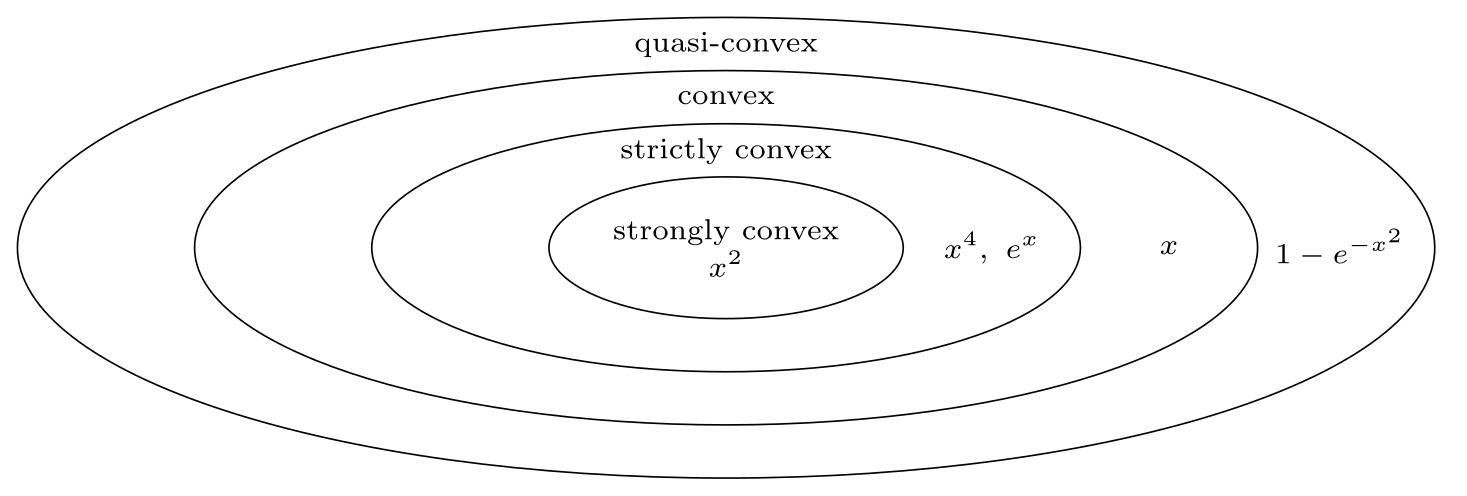
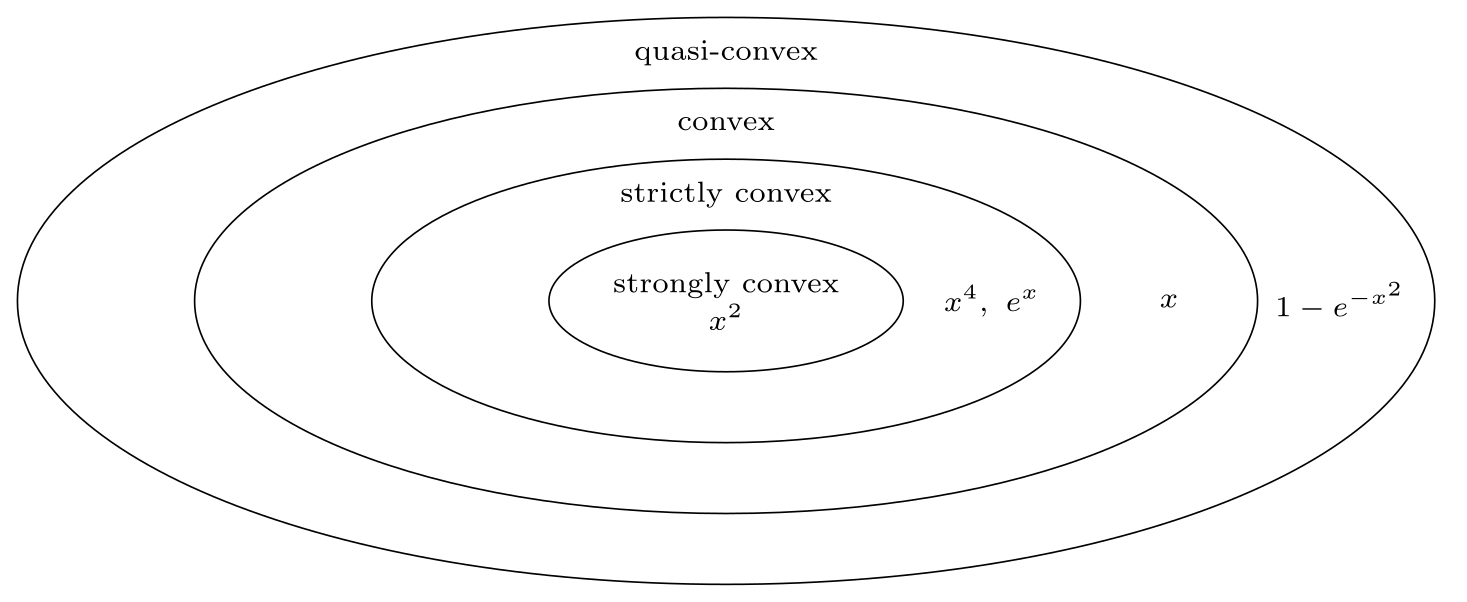
L13 figures: expand the nested convexity rings and move the tangent-panel x label to the axis
Alex's marks on the old 13-13 ('overlap') and 13-18 ('expand circles to avoid overlap').
Ring vertical radii 2.4/1.8/1.2/0.6 so each name sits clear of both rings; check_greyscale PASS.

diff --git a/figures/tikz/ra-convexity-classes.tex b/figures/tikz/ra-convexity-classes.tex
@@ -17,13 +17,15 @@
 %
 % GREYSCALE: rings are distinguished by nesting and printed names only.
 \begin{tikzpicture}[font=\small, lab/.style={font=\scriptsize, inner sep=1pt}]
-  \draw (0,0) ellipse (6.0 and 1.95);
-  \draw (0,0) ellipse (4.5 and 1.5);
-  \draw (0,0) ellipse (3.0 and 1.05);
+  % 2026-10-06 (Alex: "expand circles to avoid overlap"): vertical radii
+  % 2.4 / 1.8 / 1.2 / 0.6, so each ring name sits 0.3 cm clear of both rings.
+  \draw (0,0) ellipse (6.0 and 2.4);
+  \draw (0,0) ellipse (4.5 and 1.8);
+  \draw (0,0) ellipse (3.0 and 1.2);
   \draw (0,0) ellipse (1.5 and 0.6);
-  \node[lab] at (0,1.72) {quasi-convex};
-  \node[lab] at (0,1.27) {convex};
-  \node[lab] at (0,0.82) {strictly convex};
+  \node[lab] at (0,2.1) {quasi-convex};
+  \node[lab] at (0,1.5) {convex};
+  \node[lab] at (0,0.9) {strictly convex};
   \node[lab, align=center] at (0,0) {strongly convex\\[1pt]$x^2$};
   \node[lab] at (2.25,0) {$x^4,\ e^x$};
   \node[lab] at (3.75,0) {$x$};

diff --git a/figures/tikz/ra-convexity.tex b/figures/tikz/ra-convexity.tex
@@ -59,7 +59,10 @@
   \draw[okabeblue, thick, dashed, domain=-1.7:1.75, variable=\t]
     plot ({\t},{0.2-0.8*(\t+0.5)});
   \filldraw (-0.5,0.2) circle (1.6pt);
-  \node[lab, below left] at (-0.5,0.2) {$\mathbf{x}$};
+  % 2026-10-06: the label sat between the parabola, the tangent and the axis;
+  % dropped to the axis like x_a, x_b, x_c in the chord panel.
+  \draw[densely dotted] (-0.5,0.2) -- (-0.5,0);
+  \node[lab, below] at (-0.5,0) {$\mathbf{x}$};
   \draw[densely dotted] (1.0,0.8) -- (1.0,-1.0);
   \filldraw (1.0,0.8) circle (1.6pt);
   \filldraw[okabeblue] (1.0,-1.0) circle (1.6pt);
